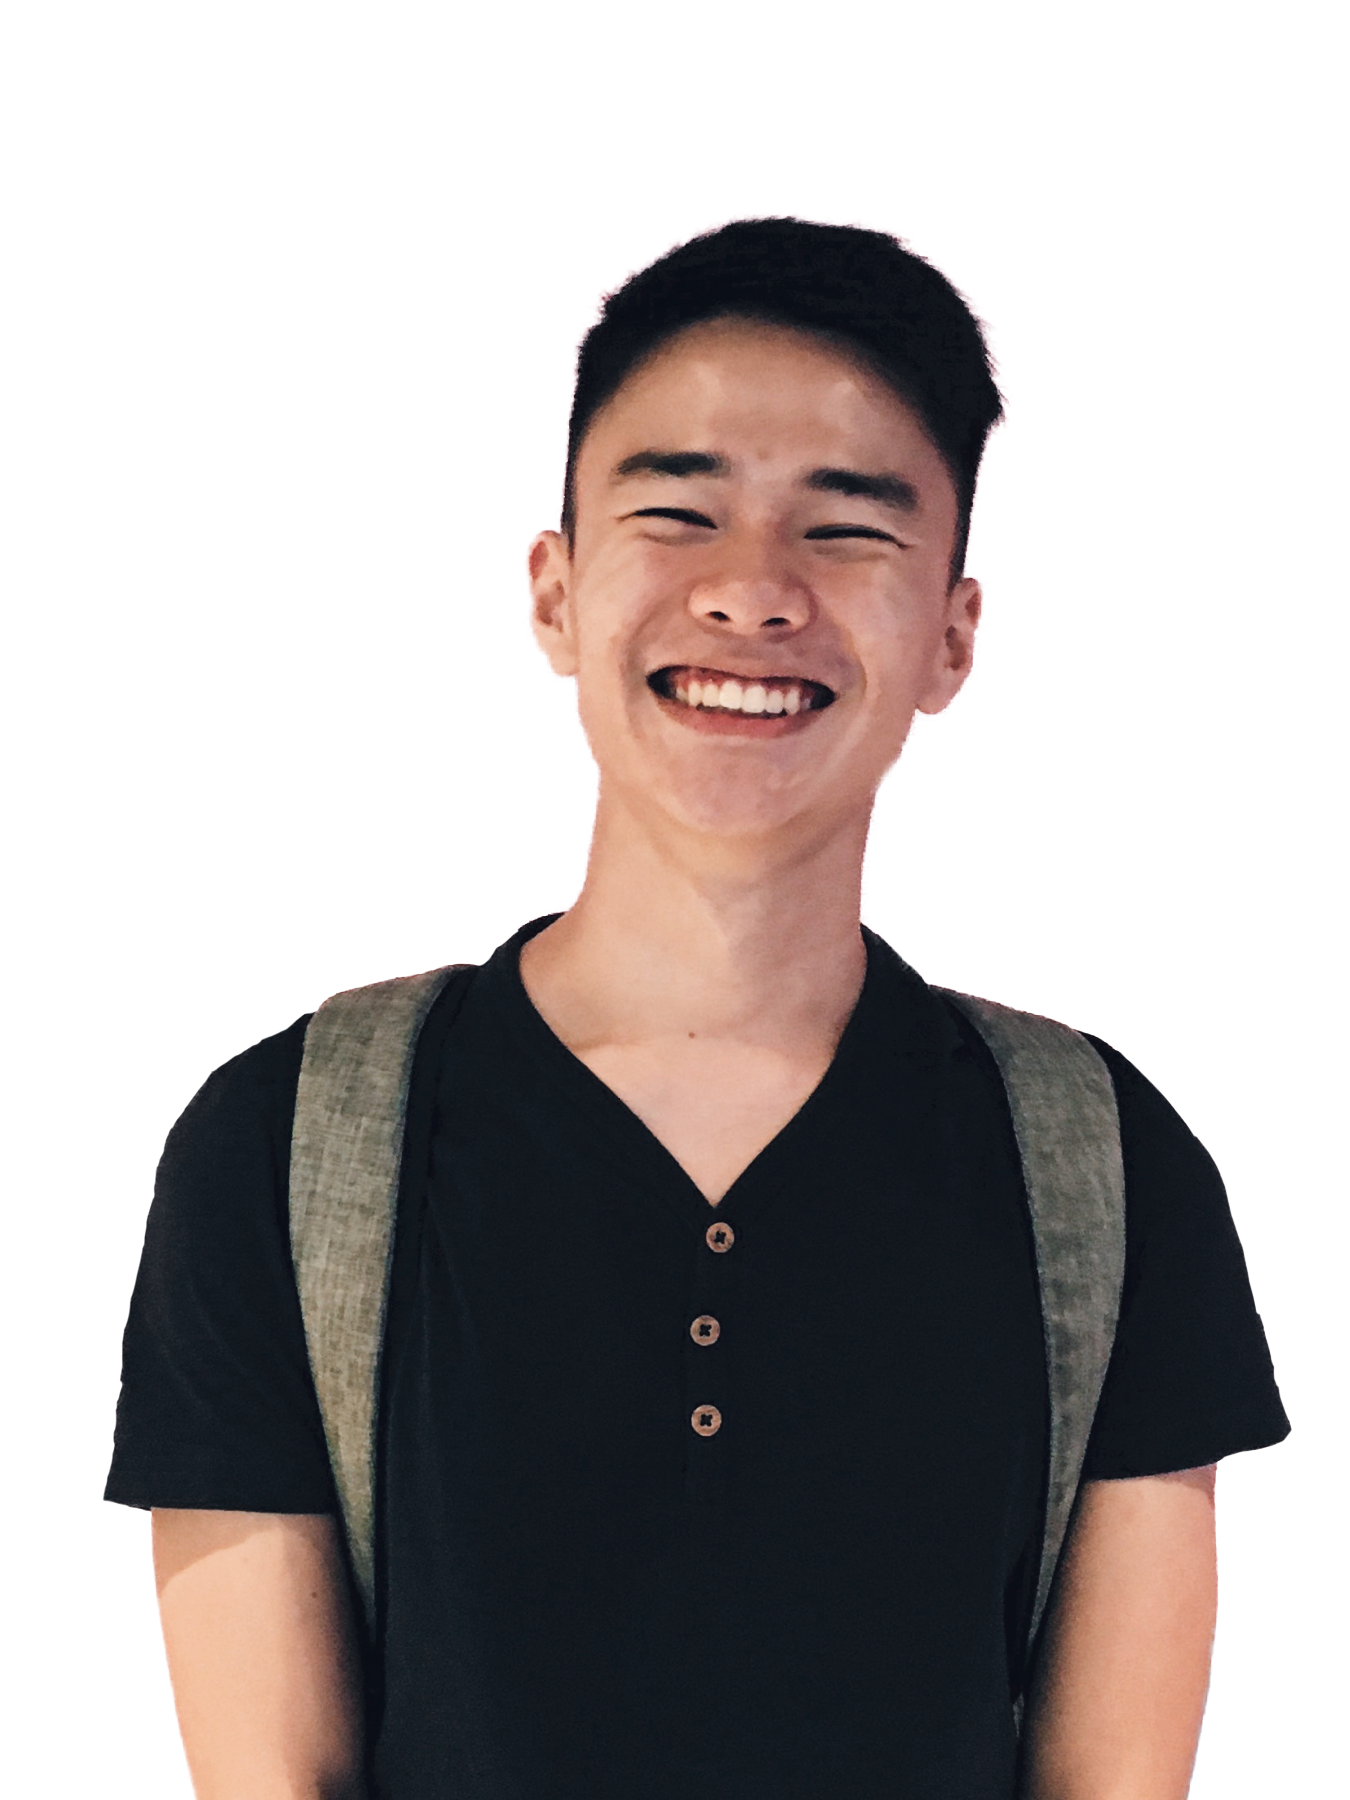
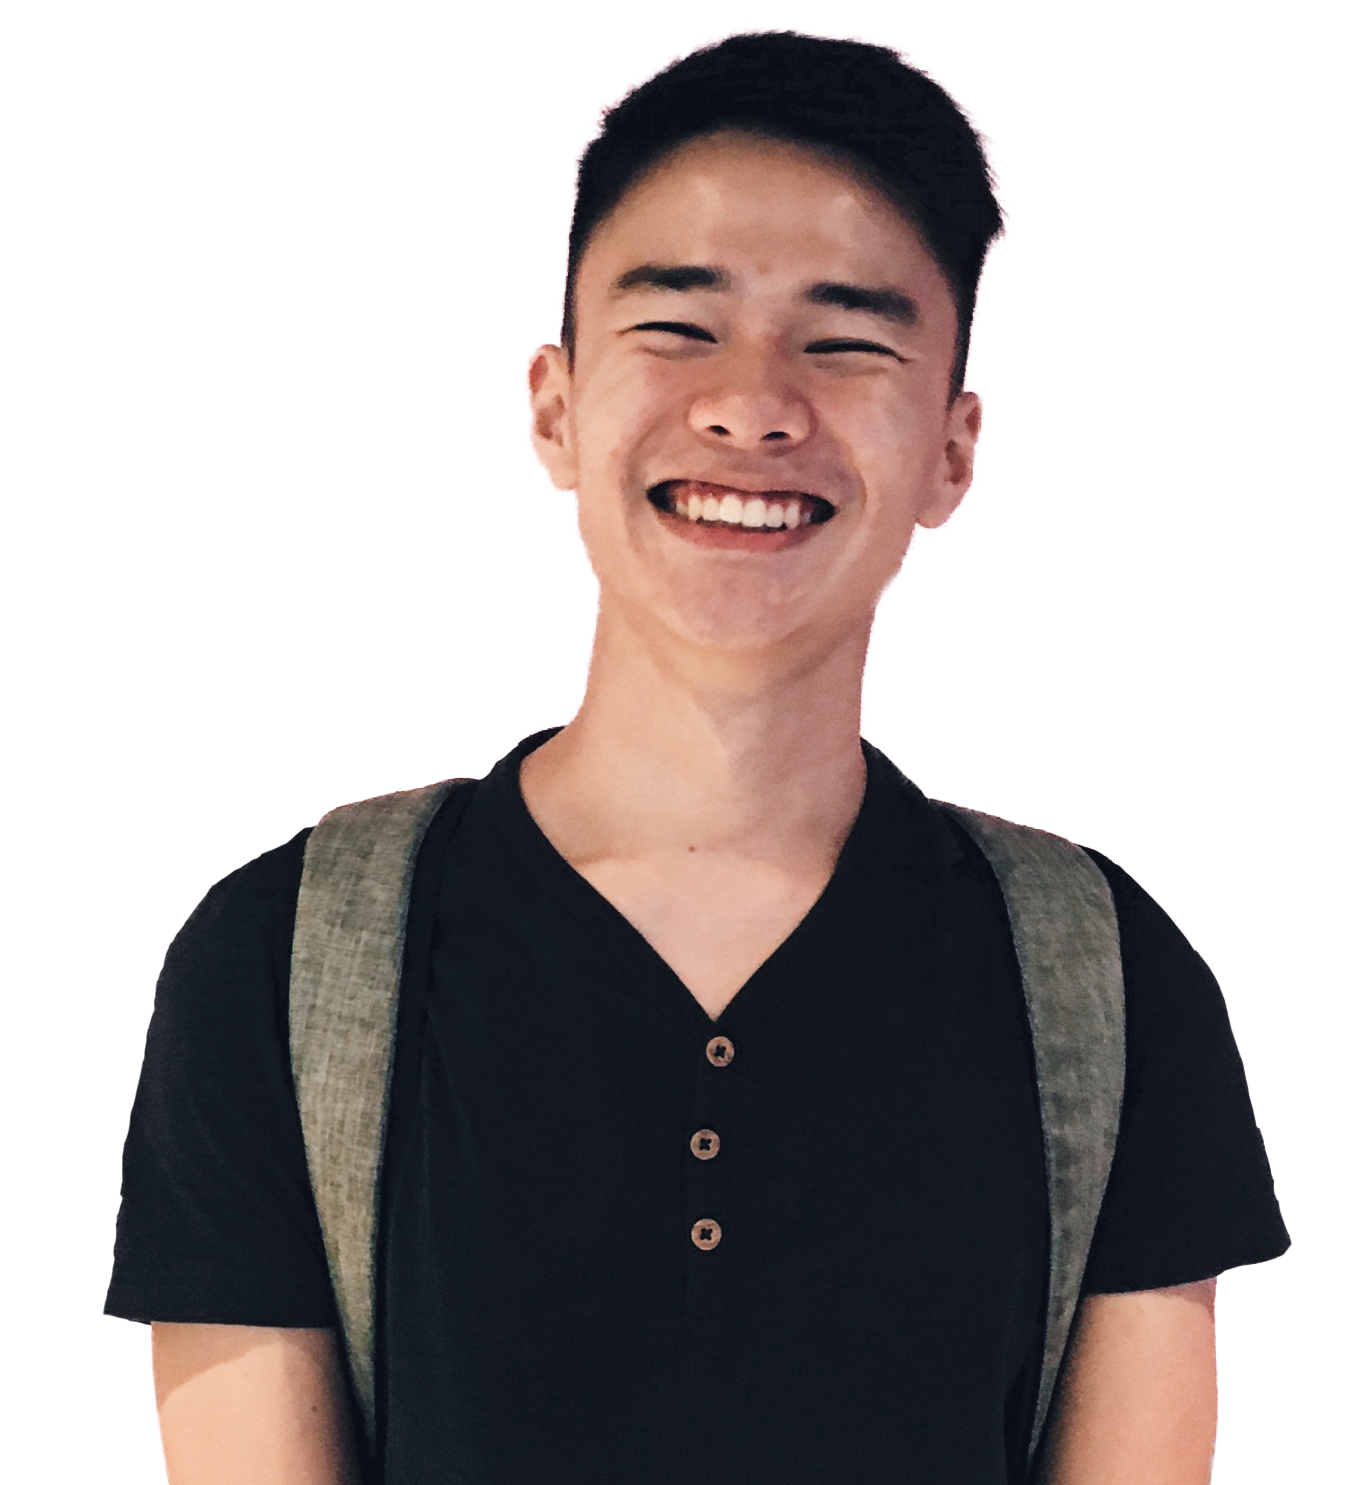
feat: theme hero

diff --git a/src/lib/components/Hero.svelte b/src/lib/components/Hero.svelte
@@ -1,7 +1,12 @@
-<section>
-  <h1 class="font-mono">Bryan Lee (bryanmylee)</h1>
+<script lang="ts">
+  let className = '';
+  export { className as class };
+</script>
+
+<section class="{className} bg-base-lighter relative p-8 space-y-8">
+  <h1 class="text-4xl text-yellow font-bold font-mono">Bryan Lee (bryanmylee)</h1>
   <p>I am a computer geek with a passion for software development.</p>
   <p>I build tools and sceipts that solve real-world problems.</p>
-  <a href="#projects">Check them out here.</a>
-  <img src="profile.png" alt="profile" />
+  <a href="#projects" class="block text-2xl text-cyan font-bold font-mono">Check them out here.</a>
+  <img src="profile.png" alt="profile" class="absolute right-0 bottom-0 w-[300px]" />
 </section>

diff --git a/src/routes/index.svelte b/src/routes/index.svelte
@@ -9,7 +9,7 @@
   <title>Bryan Lee</title>
 </svelte:head>
 
-<p class="font-mono text-3xl">
+<p class="font-mono text-3xl mt-12">
   I am a <GlitchMarquee texts={descriptions} class="font-bold text-cyan"/>
 </p>
-<Hero />
+<Hero class="mt-12"/>

diff --git a/src/routes/$layout.svelte b/src/routes/$layout.svelte
@@ -2,4 +2,6 @@
   import '../app.postcss';
 </script>
 
-<slot />
+<main class="max-w-screen-md mx-auto">
+  <slot />
+</main>
